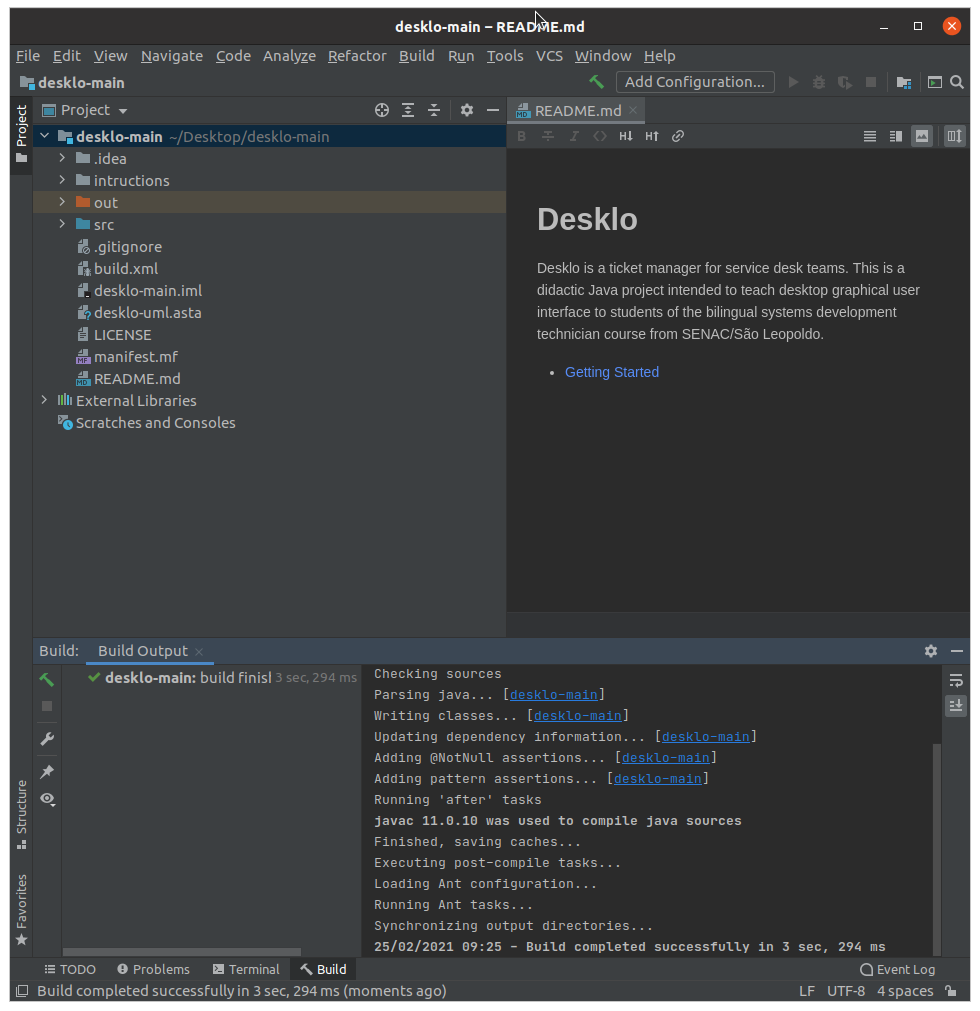
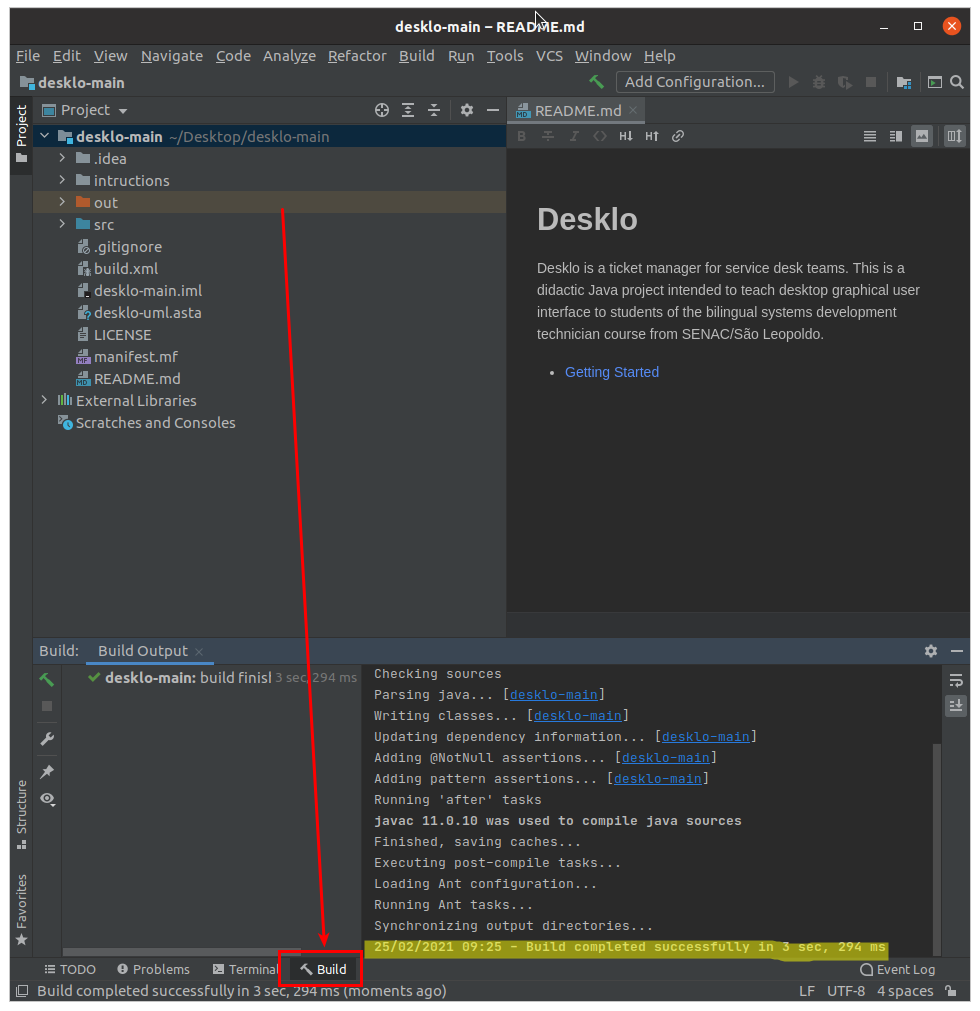
Added IntelliJ community instructions text

diff --git a/intructions/getting-started.md b/intructions/getting-started.md
@@ -15,49 +15,9 @@ Alternatively, you can download the repository by browsing to https://github.com
 
 Go to the address https://www.oracle.com/java/technologies/javase-jdk15-downloads.html and download the installer suitable for your operating system (Windows, Linux, or macOS). Then execute the installer after its download.
 
-## NetBeans IDE
+## IDE Setup
 
-Go to the address https://netbeans.apache.org/download/nb120/nb120.html and download the installer suitable for your operating system (Windows, Linux, or macOS). Then execute the installer after its download.
+We provided two guides for setting up IDEs. You can choose between IntelliJ Community or Netbenans.
 
-## Opening the project
-
-Run the NetBeans IDE. After starting NetBeans click in the `File` menu, then `New Project`. A dialog will open for you to select the type of the project. In the `Categories` list select `Java with Ant`, in the projects list select `Java Project with Existing Sources`, then click on the `Next` button (see Figure 1). 
-
-**[Figure 1 - NetBeans "New Project" dialog (step 1)]**
-![NetBeans New Project dialog step 1, highlighting in red the Categories list, Projects list, and the Next button. Java wih Ant is selected in the Categories list and Java Project with Existing Sources is selected in the Projects list](https://raw.githubusercontent.com/hdvianna/desklo/main/intructions/new-project-type.png "Figure 1")
-
-In the next step (`Finding Feature`) unmark all checkboxes and click on the `Activate` button. You will need to wait for a few seconds while the feature is being activated (see Figure 2).
-
-**[Figure 2 - NetBeans "New Project" dialog (step 2)]**
-![NetBeans New Project dialog step 2 highlighting in red the Activate button](https://raw.githubusercontent.com/hdvianna/desklo/main/intructions/new-project-feature.png "Figure 2")
-
-In the next step, type in `Desklo` in the Project Name field. Then click on the `Browse...` button and then select the location where you saved the Desklo repository. After selecting the location click on the `Finish` button (see Figure 3).
-
-**[Figure 3 - NetBeans "New Project" dialog (step 3)]**
-![NetBeans New Project dialog step 3 highlighting in red the Project Name field, the Browse... button, and the Finish button](https://raw.githubusercontent.com/hdvianna/desklo/main/intructions/new-project-finish.png "Figure 3")
-
-Now click in the `File` menu and then in the `Project Properties` (if this item is disabled try to click the Desklo item in the Projects tree, see Figure 4, and try again). In the Project Properties dialog, select the categories `Sources` and click on the button `Add Folder...` from the `Source Package Folders` session (Figure 5). Then select the folder `src` (from the desklo repository location) then click Ok, and click Ok again.
-
-**[Figure 4 - Projects Tree]**
-
-![NetBeans Projects Tree](https://raw.githubusercontent.com/hdvianna/desklo/main/intructions/projects-tree.png "Figure 4")
-
-**[Figure 5 - Project Sources Settings]**
-![NetBeans Project Sources Settings](https://raw.githubusercontent.com/hdvianna/desklo/main/intructions/project-sources.png "Figure 5")
-
-## Running the project
-
-After the project opened, in the Project tab, right-click the item "Desklo", then click in "Clean and Build" (see Figure 6). Figure 7 shows the expected output from the building process.
-
-**[Figure 6 - Building]**
-
-![Netbeans project context menu ](https://raw.githubusercontent.com/hdvianna/desklo/main/intructions/build.png "Figure 6")
-
-**[Figure 7 - Building Result]**
-![Desklo building output](https://raw.githubusercontent.com/hdvianna/desklo/main/intructions/build-output.png "Figure 7")
-
-
-To run the project press the F6 key. You shall see the a window similar to the presented in Figure 8.
-
-**[Figure 8 - Desklo Main Window]**
-![Desklo main window](https://raw.githubusercontent.com/hdvianna/desklo/main/intructions/desklo-main.png "Figure 8")
+- [IntelliJ Community](settingup-intellij-community.md)
+- [Netbeans](settingup-netbeans.md)

diff --git a/intructions/settingup-netbeans.md b/intructions/settingup-netbeans.md
@@ -1,0 +1,46 @@
+# NetBeans IDE
+
+Go to the address https://netbeans.apache.org/download/nb120/nb120.html and download the installer suitable for your operating system (Windows, Linux, or macOS). Then execute the installer after its download.
+
+## Opening the project
+
+Run the NetBeans IDE. After starting NetBeans click in the `File` menu, then `New Project`. A dialog will open for you to select the type of the project. In the `Categories` list select `Java with Ant`, in the projects list select `Java Project with Existing Sources`, then click on the `Next` button (see Figure 1). 
+
+**[Figure 1 - NetBeans "New Project" dialog (step 1)]**
+![NetBeans New Project dialog step 1, highlighting in red the Categories list, Projects list, and the Next button. Java wih Ant is selected in the Categories list and Java Project with Existing Sources is selected in the Projects list](https://raw.githubusercontent.com/hdvianna/desklo/main/intructions/new-project-type.png "Figure 1")
+
+In the next step (`Finding Feature`) unmark all checkboxes and click on the `Activate` button. You will need to wait for a few seconds while the feature is being activated (see Figure 2).
+
+**[Figure 2 - NetBeans "New Project" dialog (step 2)]**
+![NetBeans New Project dialog step 2 highlighting in red the Activate button](https://raw.githubusercontent.com/hdvianna/desklo/main/intructions/new-project-feature.png "Figure 2")
+
+In the next step, type in `Desklo` in the Project Name field. Then click on the `Browse...` button and then select the location where you saved the Desklo repository. After selecting the location click on the `Finish` button (see Figure 3).
+
+**[Figure 3 - NetBeans "New Project" dialog (step 3)]**
+![NetBeans New Project dialog step 3 highlighting in red the Project Name field, the Browse... button, and the Finish button](https://raw.githubusercontent.com/hdvianna/desklo/main/intructions/new-project-finish.png "Figure 3")
+
+Now click in the `File` menu and then in the `Project Properties` (if this item is disabled try to click the Desklo item in the Projects tree, see Figure 4, and try again). In the Project Properties dialog, select the categories `Sources` and click on the button `Add Folder...` from the `Source Package Folders` session (Figure 5). Then select the folder `src` (from the desklo repository location) then click Ok, and click Ok again.
+
+**[Figure 4 - Projects Tree]**
+
+![NetBeans Projects Tree](https://raw.githubusercontent.com/hdvianna/desklo/main/intructions/projects-tree.png "Figure 4")
+
+**[Figure 5 - Project Sources Settings]**
+![NetBeans Project Sources Settings](https://raw.githubusercontent.com/hdvianna/desklo/main/intructions/project-sources.png "Figure 5")
+
+## Running the project
+
+After the project opened, in the Project tab, right-click the item "Desklo", then click in "Clean and Build" (see Figure 6). Figure 7 shows the expected output from the building process.
+
+**[Figure 6 - Building]**
+
+![Netbeans project context menu ](https://raw.githubusercontent.com/hdvianna/desklo/main/intructions/build.png "Figure 6")
+
+**[Figure 7 - Building Result]**
+![Desklo building output](https://raw.githubusercontent.com/hdvianna/desklo/main/intructions/build-output.png "Figure 7")
+
+
+To run the project press the F6 key. You shall see the a window similar to the presented in Figure 8.
+
+**[Figure 8 - Desklo Main Window]**
+![Desklo main window](https://raw.githubusercontent.com/hdvianna/desklo/main/intructions/desklo-main.png "Figure 8")

diff --git a/intructions/settingup-intellij-community.md b/intructions/settingup-intellij-community.md
@@ -1,0 +1,46 @@
+# IntelliJ Community
+
+Go to the address https://www.jetbrains.com/idea/download/ and download the "Community" (Figure 1) installer suitable for your operating system (Windows, Linux, or macOS). Then execute the installer after its download.
+
+**[Figure 1 - IntelliJ Community Download ]**
+
+![IntelliJ Community downlad page](https://raw.githubusercontent.com/hdvianna/desklo/main/intructions/intellij-download.png "Figure 1")
+
+## Opening the project
+
+After downloading and installing IntelliJ Community, run the IntelliJ Community. In the first time you run it, you will be view a dialog like Figure 2. Click on the icon above "Open", then select the location where you stored the desklo project, then click "Ok" (see Figure 3).
+
+**[Figure 2 - IntelliJ First Execution ]**
+
+![IntelliJ first execution dialog](https://raw.githubusercontent.com/hdvianna/desklo/main/intructions/intellij-open-project.png "Figure 2")
+
+**[Figure 3 - IntelliJ Select Folder]**
+
+![IntelliJ select folder dialog](https://raw.githubusercontent.com/hdvianna/desklo/main/intructions/intellij-select-project.png "Figure 3")
+
+Now you need to mark your "src" folder as a "Source Root" folder (Figure 4). You will only need to do this if your src folder in the project view is with color different than blue.
+
+**[Figure 4 - IntelliJ Mark Folder as Source Root]**
+
+![IntelliJ mark folder as Source Root](https://raw.githubusercontent.com/hdvianna/desklo/main/intructions/intellij-mark-as-source.png "Figure 4")
+
+Then, click on the menu __Build__, then on __Build Module 'desklo'__ (or __Build Module 'desklo-main'__  depending how you downloaded the repository), like shown on Figure 5. 
+
+**[Figure 5 - IntelliJ Build Deklo]**
+
+![IntelliJ build Desklo](https://raw.githubusercontent.com/hdvianna/desklo/main/intructions/intellij-build-desklo.png "Figure 5")
+
+Then click on the __Build__ button placed at the bottom of the screen (Figure 6). You shall see the build output. When finished a message __"Build completed successfully"__ will be printed in the build output window.
+
+**[Figure 6 - IntelliJ Build Output]**
+
+![IntelliJ build output](https://raw.githubusercontent.com/hdvianna/desklo/main/intructions/intellij-build-success.png "Figure 6")
+
+Finally, we need to run the Desklo. So, in the Project tab (on left), browse to the folder "src/com.cabanaban/desklo" right click on DeskloDesktop and then "run DeskloDesktop.main()", as Figure 7 shows.
+
+**[Figure 7 - IntelliJ Running Desklo]**
+
+![IntelliJ runnint Desklo output](https://raw.githubusercontent.com/hdvianna/desklo/main/intructions/intellij-run-desklo.png "Figure 6")
+
+
+
